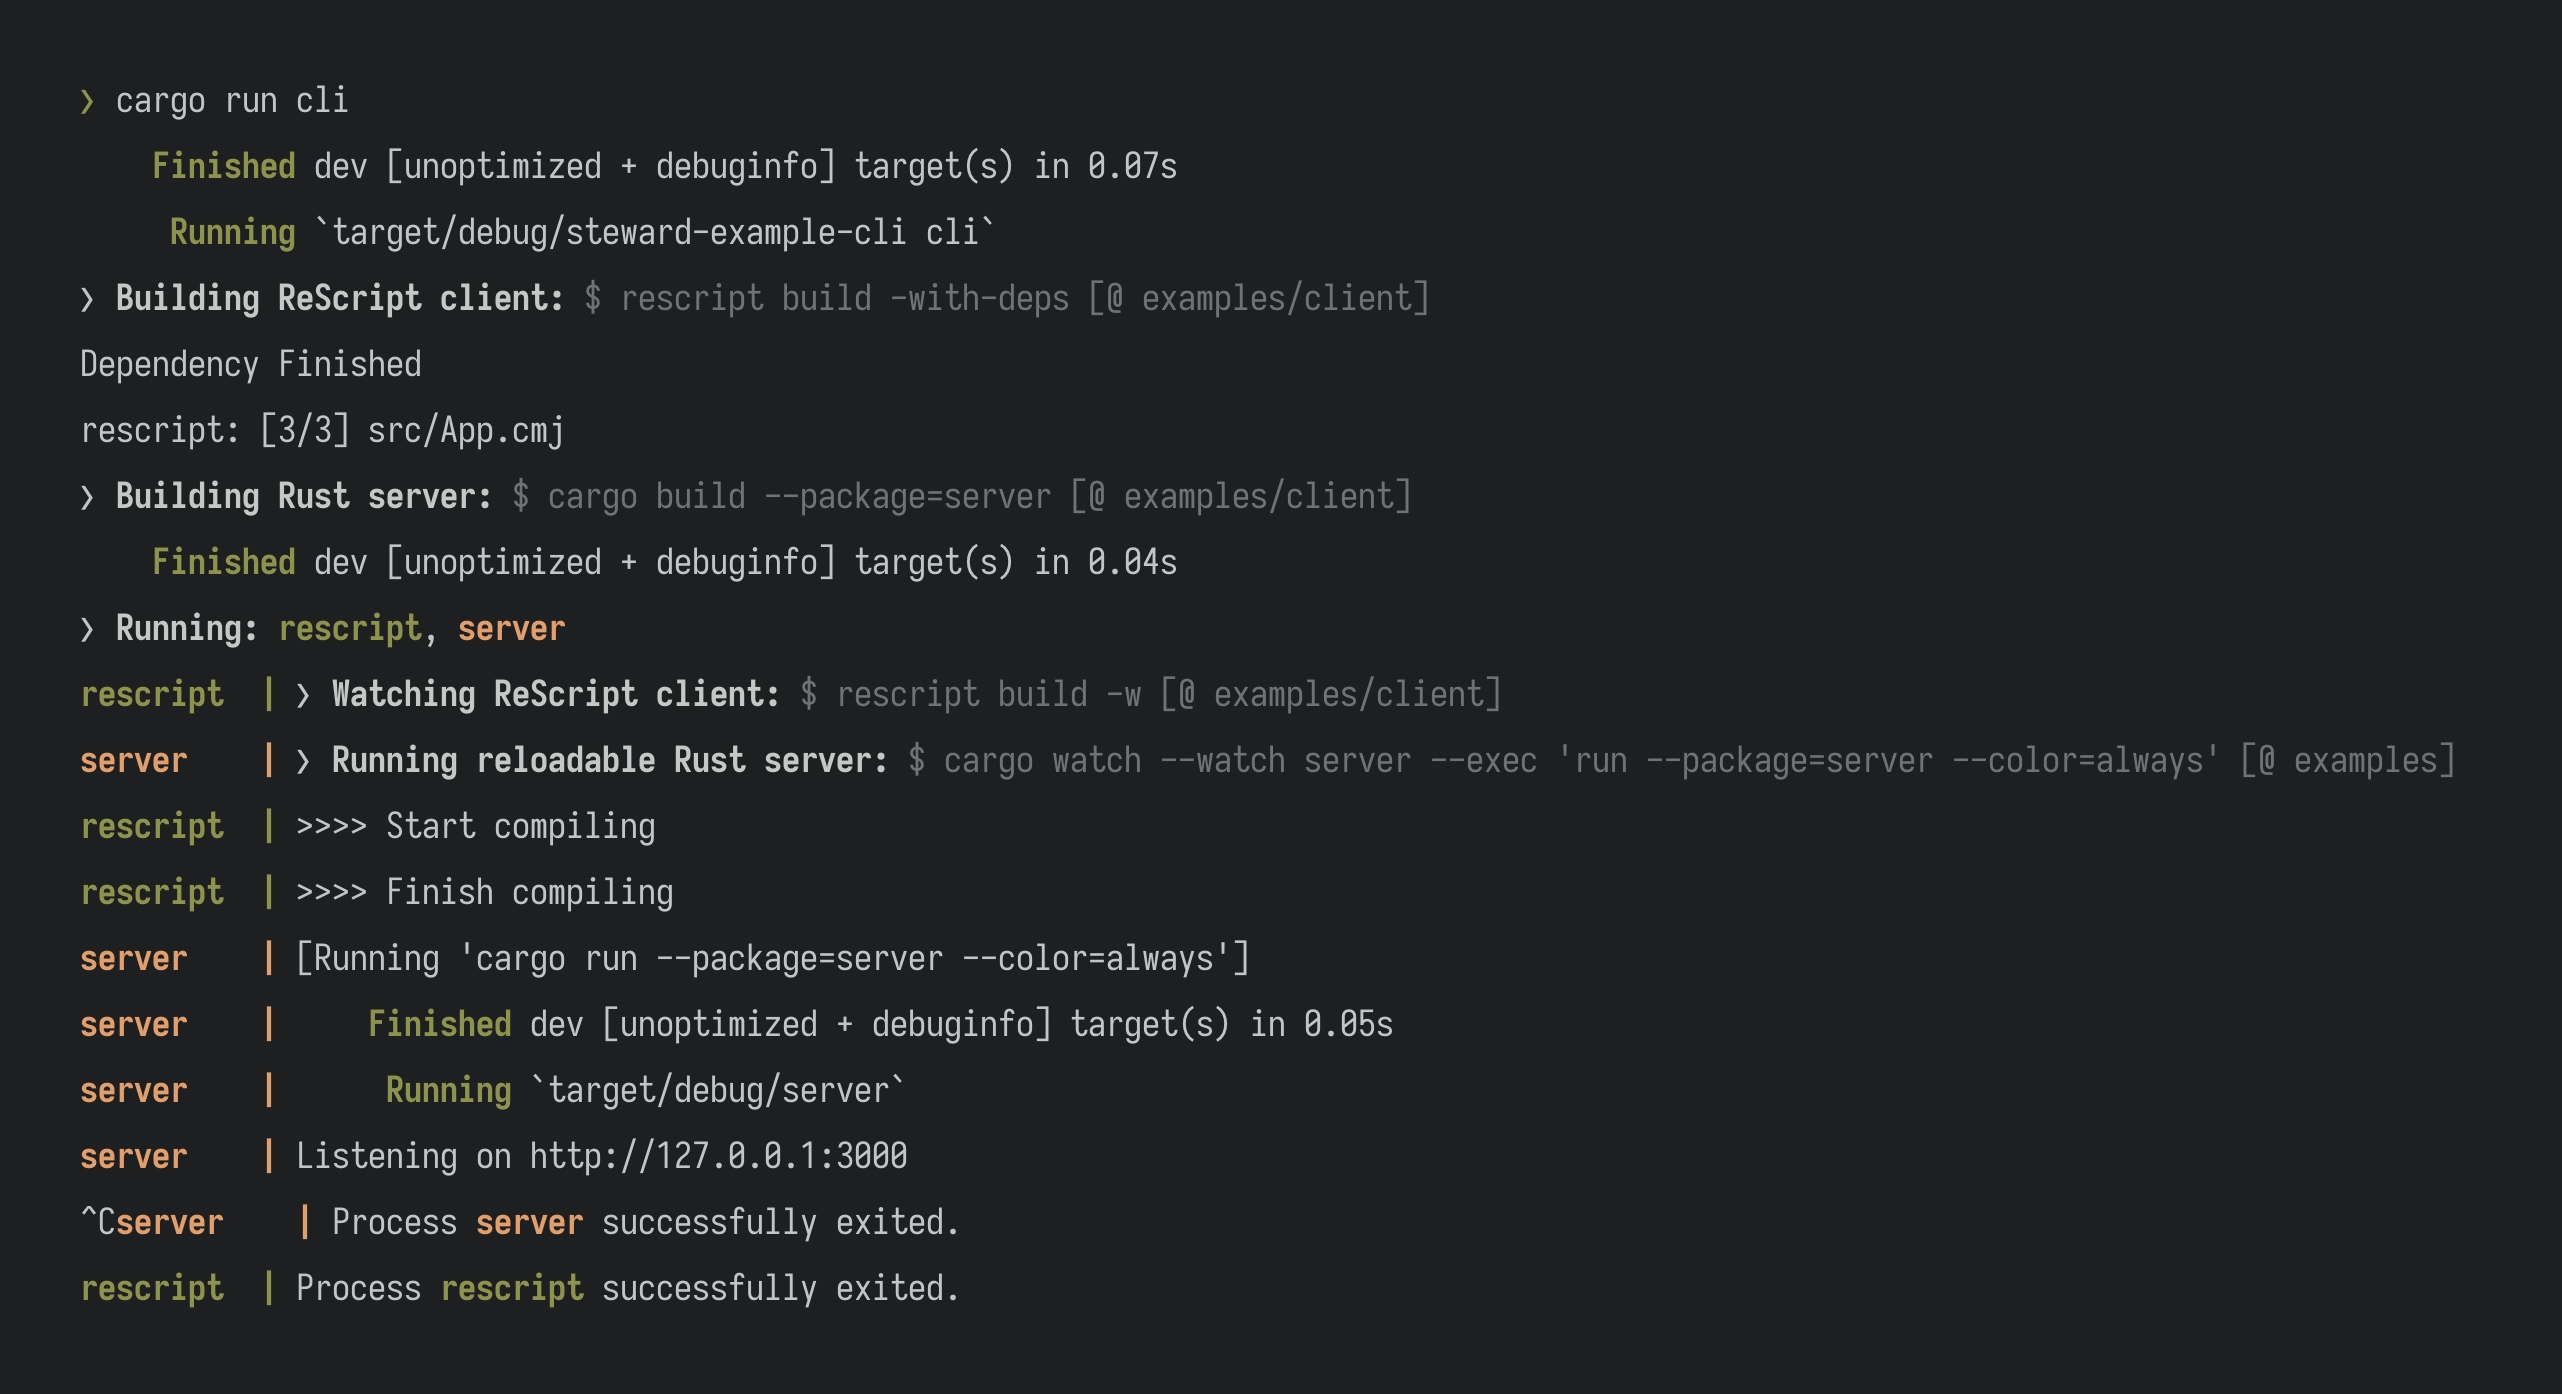
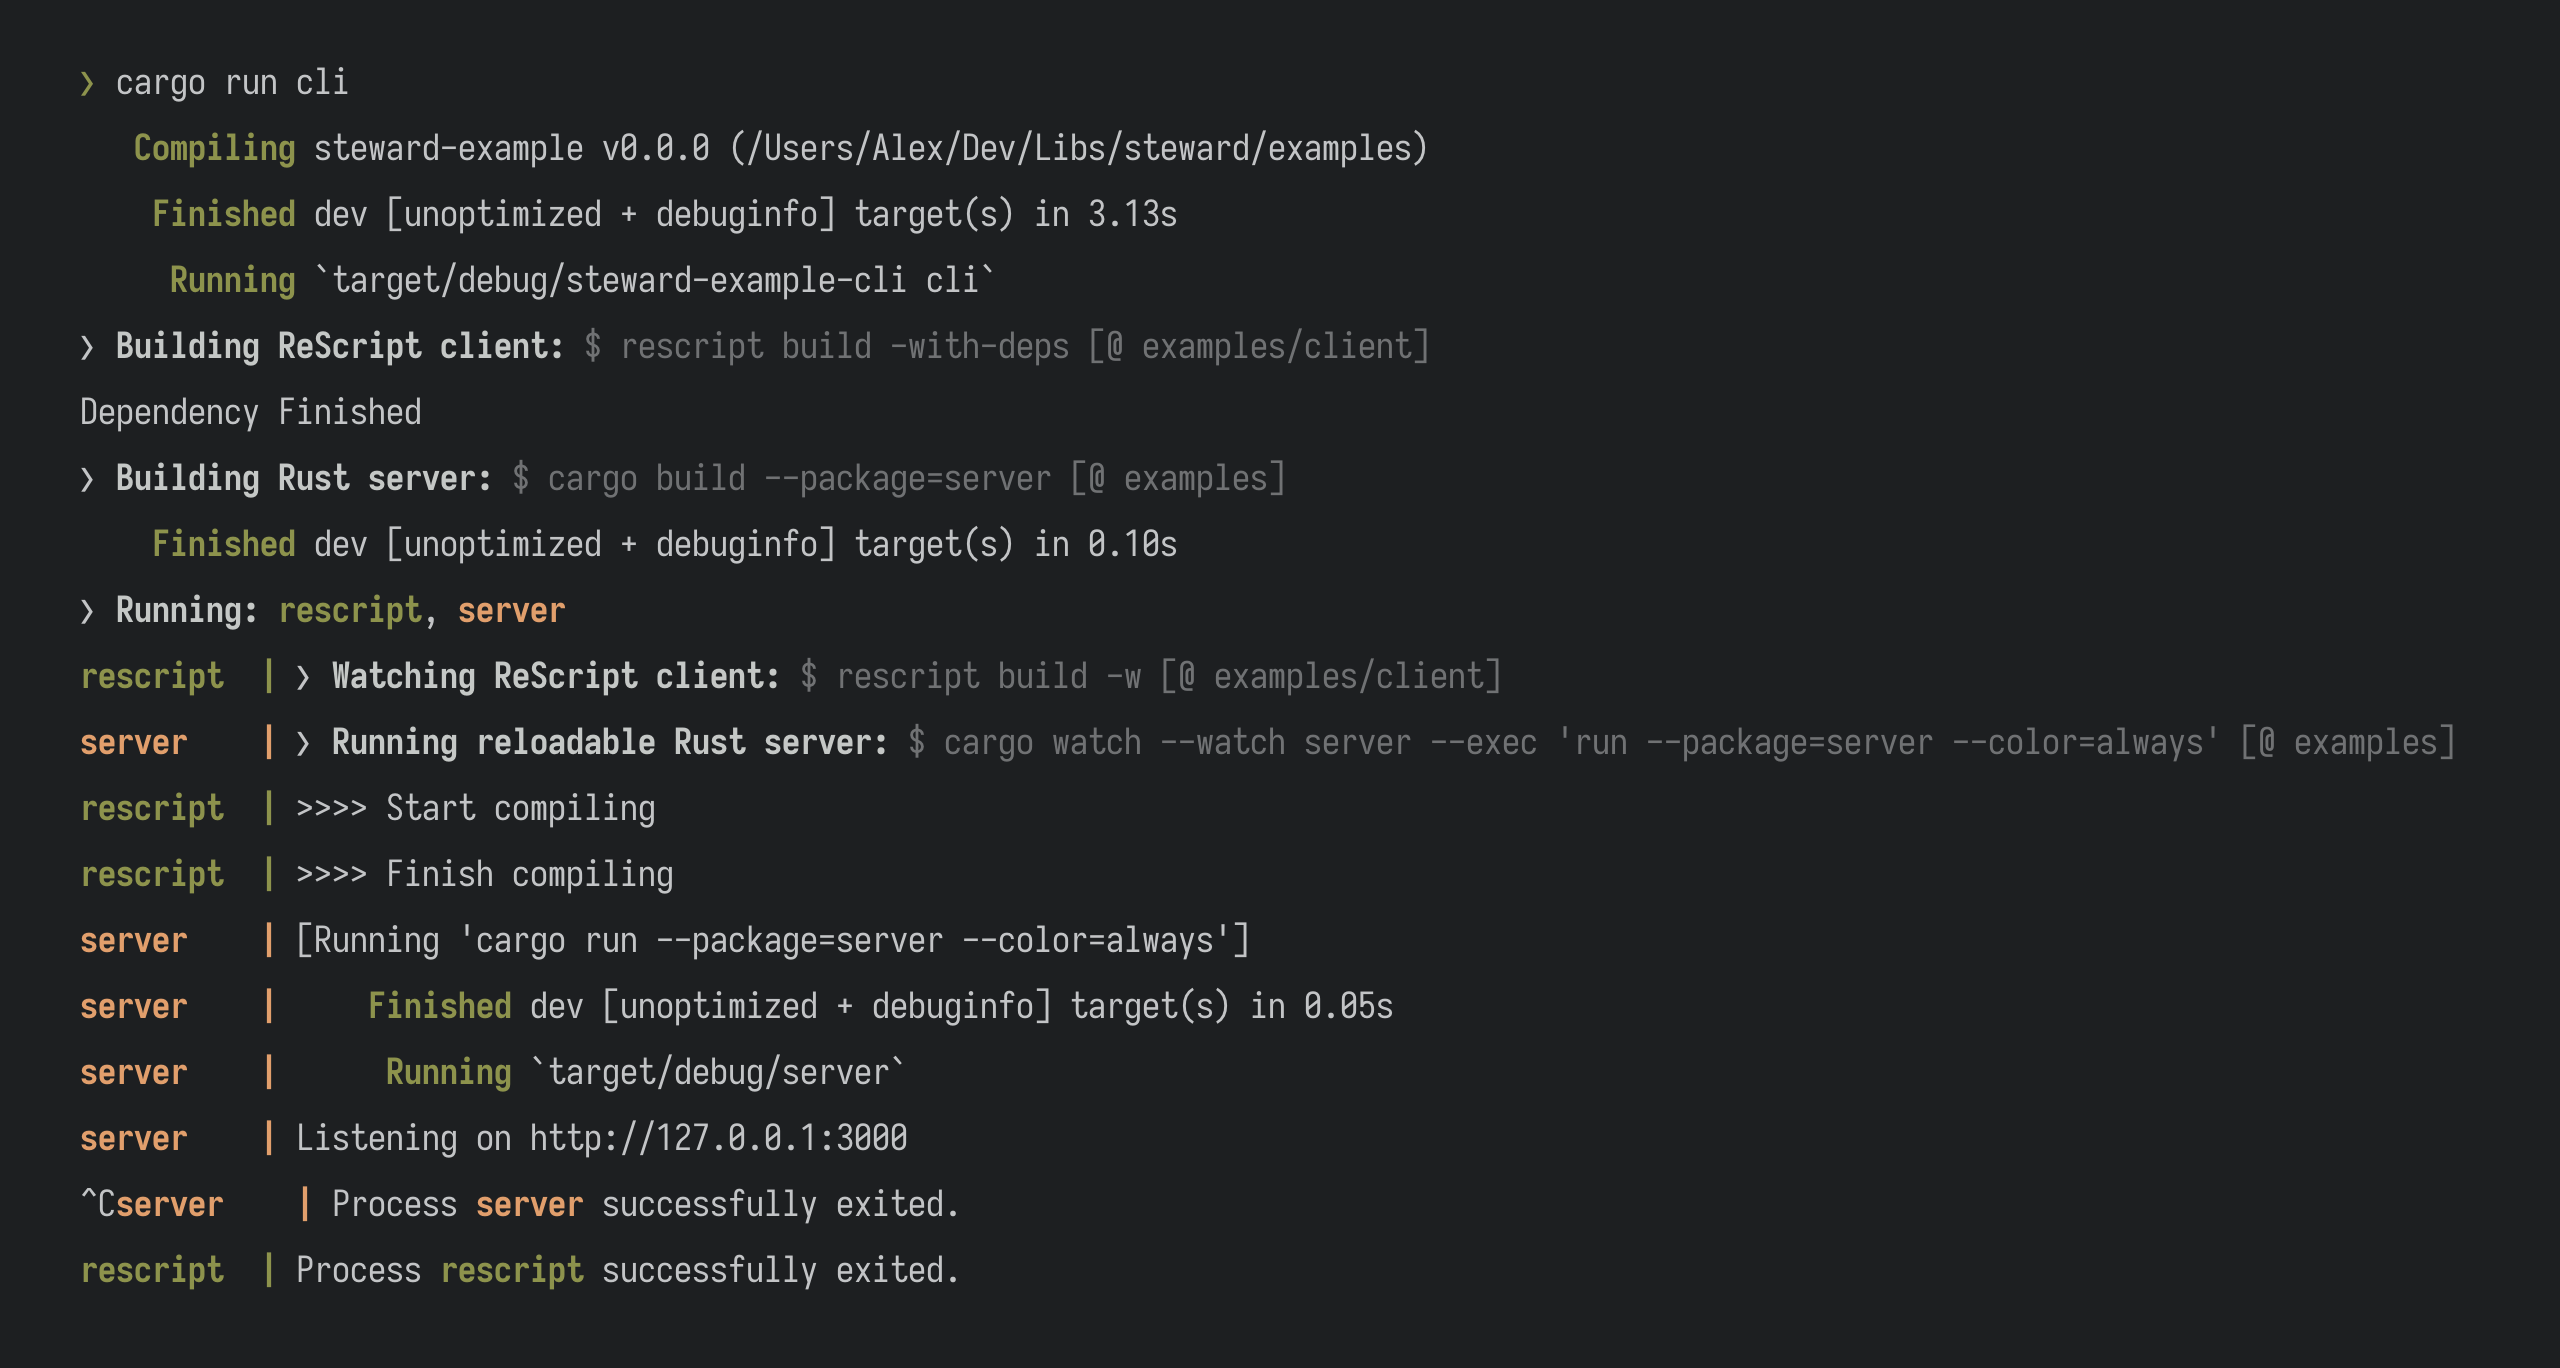
Fix example

diff --git a/examples/cli/main.rs b/examples/cli/main.rs
@@ -61,7 +61,7 @@ mod server {
         cmd! {
             exe: "cargo build --package=server",
             env: Config::to_env(),
-            pwd: Loc::client(),
+            pwd: Loc::root(),
             msg: "Building Rust server",
         }
     }
